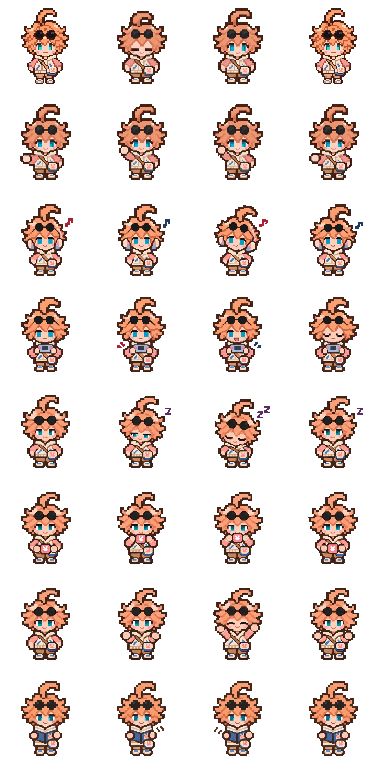
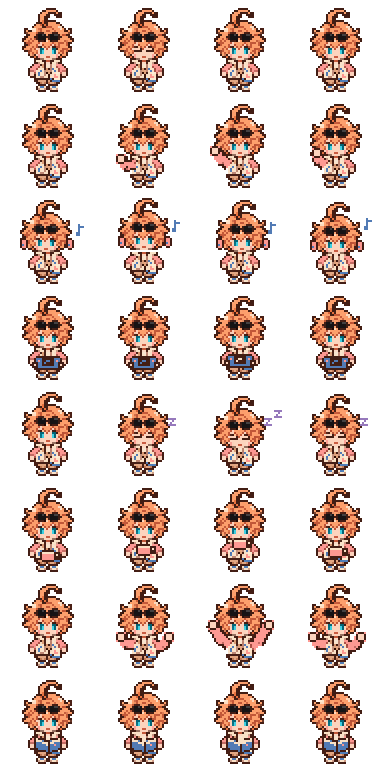
Use the consistent pixel art for Faye

diff --git a/css/admin.css b/css/admin.css
@@ -56,7 +56,7 @@ button:focus-visible,a:focus-visible,.nav-item:focus-visible{outline:2px solid v
 .faye-help summary{display:block;list-style:none;cursor:pointer;}
 .faye-help summary::-webkit-details-marker{display:none;}
 .faye-help :focus-visible{outline:2px solid var(--text);outline-offset:3px;}
-.faye-sprite{--faye-size:120px;display:block;width:var(--faye-size);height:var(--faye-size);background:url('../img/faye-assistant.png?v=3') 0 0 / calc(4 * var(--faye-size)) calc(8 * var(--faye-size)) no-repeat;image-rendering:pixelated;}
+.faye-sprite{--faye-size:120px;display:block;width:var(--faye-size);height:var(--faye-size);background:url('../img/faye-assistant.png?v=4') 0 0 / calc(4 * var(--faye-size)) calc(8 * var(--faye-size)) no-repeat;image-rendering:pixelated;}
 .faye-help-panel{position:absolute;bottom:100%;right:0;width:min(330px,calc(100vw - 34px - env(safe-area-inset-right)));max-height:min(65dvh,calc(100dvh - 150px - env(safe-area-inset-bottom)));overflow:auto;padding:15px 16px;border:1px solid var(--border);border-radius:var(--radius-lg);background:var(--surface);color:var(--text);box-shadow:var(--shadow-md);}
 .faye-help-panel h2{font-size:1rem;margin:0 0 8px;}
 .faye-reply{margin:0 0 10px;padding:8px 10px;border-radius:10px;background:var(--bg);font-size:.875rem;line-height:1.5;}

diff --git a/admin.html b/admin.html
@@ -14,7 +14,7 @@
 <link rel="preconnect" href="https://fonts.googleapis.com">
 <link href="https://fonts.googleapis.com/css2?family=Noto+Sans+Thai:wght@300;400;500;600;700&family=Sora:wght@400;500;600;700&display=swap" rel="stylesheet">
 
-<link rel="stylesheet" href="css/admin.css?v=faye3">
+<link rel="stylesheet" href="css/admin.css?v=faye4">
 </head>
 <body>
 <div id="toast" role="status" aria-live="polite"></div>
